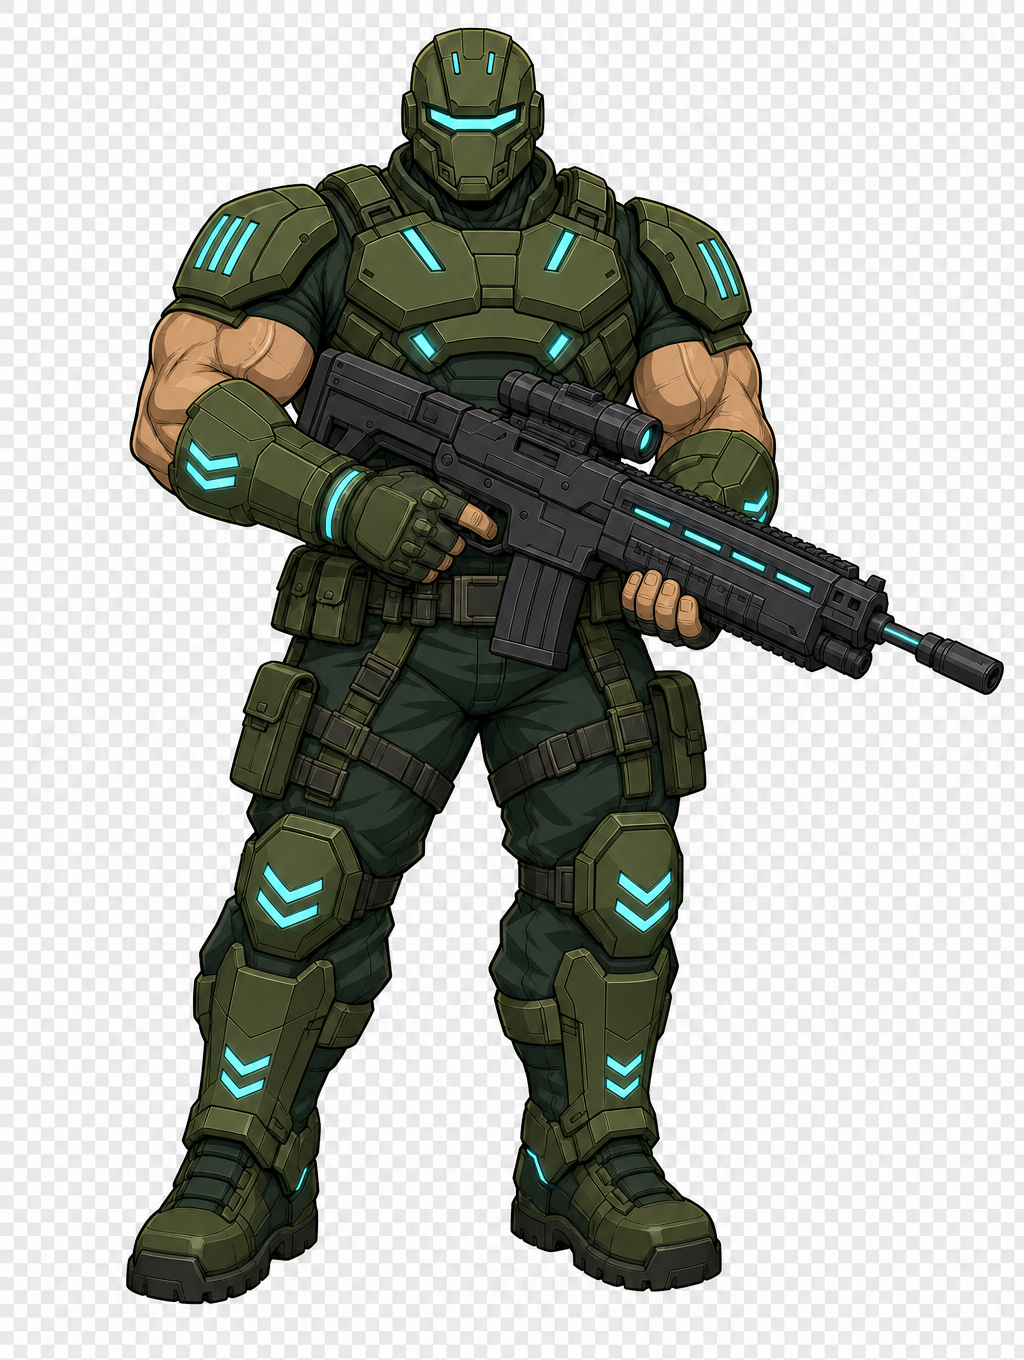
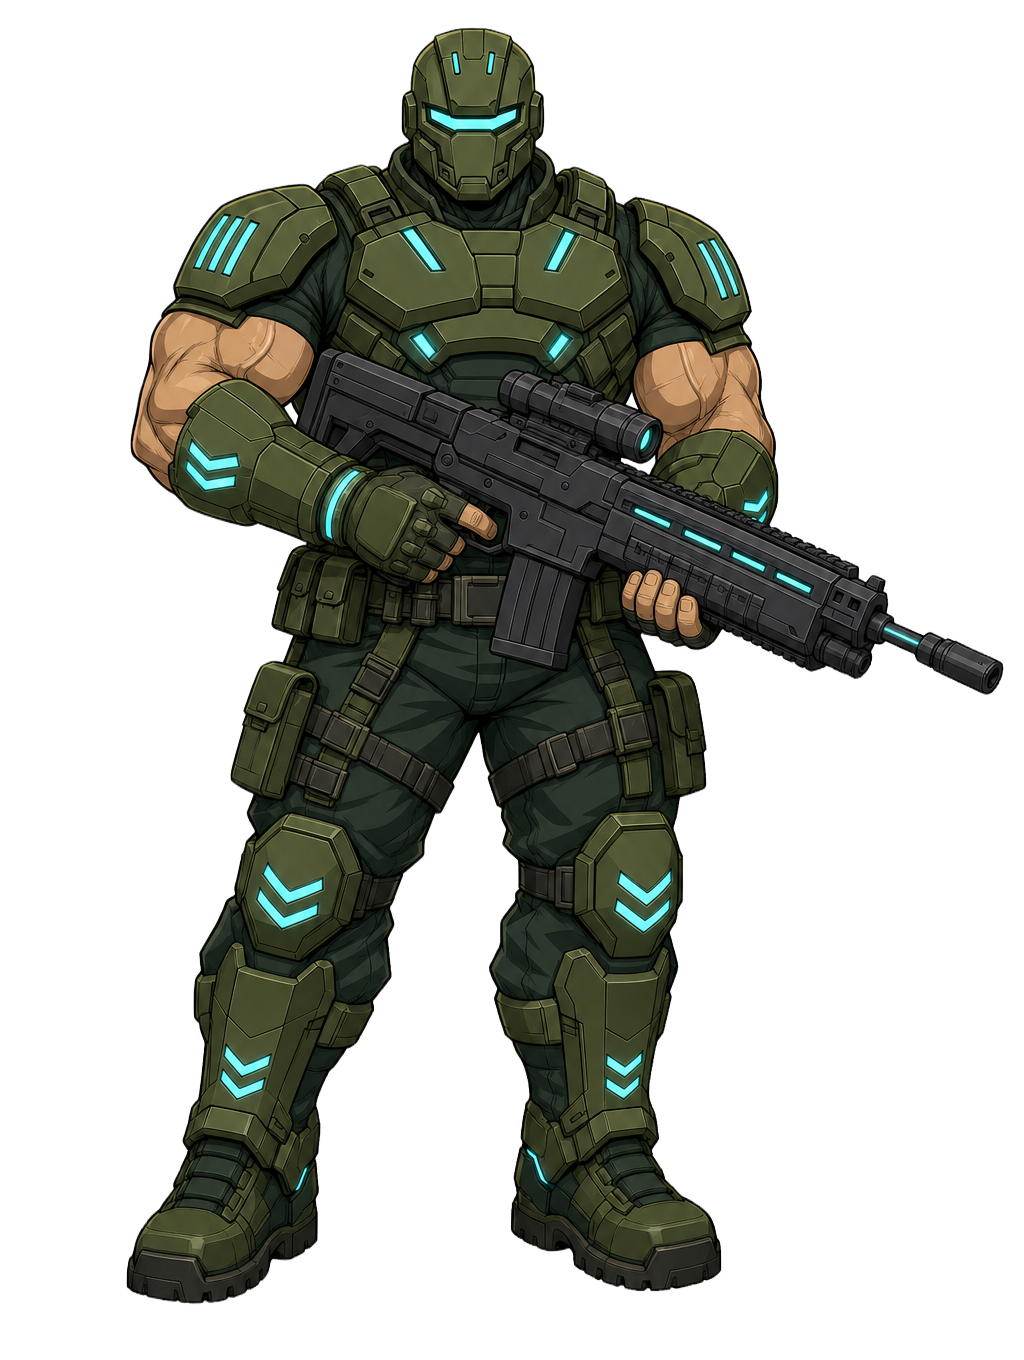
docs: use transparent Warden hero image in README

diff --git a/.memsearch/memory/2026-06-18.md b/.memsearch/memory/2026-06-18.md
@@ -285,3 +285,14 @@
 - Claude Code verified the server recovered by running `curl` against http://localhost:5173/, which returned HTTP 200.
 - Claude Code confirmed the dev server is back online and prompted the user for next steps: deploy to production, add game features, background music, or boss tuning.
 
+
+## Session 16:08
+
+### 16:08
+<!-- session:2f4d98fc-6de8-4f0e-8f23-d8cdf79320c4 turn:65cffac9-77d6-4c6f-a7d2-12a3cab3e60c transcript:/Users/rajg/.claude/projects/-Users-rajg-Codes/2f4d98fc-6de8-4f0e-8f23-d8cdf79320c4.jsonl -->
+- User requested Claude Code add a hero image from Downloads to the README.
+- Claude Code located the image in Downloads: `-2d-cartoon-vector-game-character--a-massive--bulk-2.png` (1024×1360, 1.5M) and copied it to `docs/warden-hero.png`.
+- Claude Code edited `README.md` to insert the hero image centered under the title at 320px width.
+- Claude Code committed and pushed the change (commit `24044d2`).
+- Claude Code noted the image's quality and suggested it could serve as a basis for regenerating in-game hero poses in the same vector style.
+